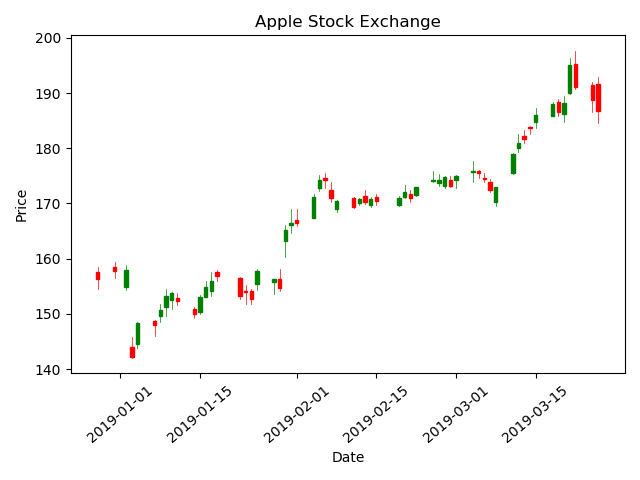
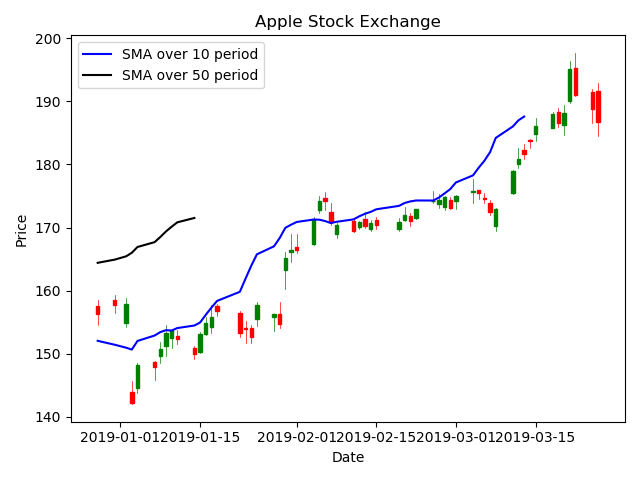
embedded sma plots

diff --git a/exploratory_analysis.py b/exploratory_analysis.py
@@ -9,14 +9,19 @@ def convert_dates(x):
     return datetime.strptime(x, "%d-%m-%Y").strftime("%Y-%m-%d")
 
 def settings():
+    plt.plot(df['date'], df['sma10'], c='blue', label='SMA over 10 period')
+    plt.plot(df['date'], df['sma50'], c='black', label='SMA over 50 period')
     plt.xlabel('Date')
     plt.ylabel('Price')
     plt.title('Apple Stock Exchange')
-    plt.xticks(rotation=40)
+    plt.legend()
     plt.tight_layout()
 
 df = pd.read_csv('HistoricalQuotes-3Months.csv')
 df['date'] = pd.to_datetime(df['date'].apply(convert_dates))
+
+df['sma10'] = df['close'].rolling(10).mean()
+df['sma50'] = df['close'].rolling(50).mean()
 
 ohlc = df[['date', 'open', 'high', 'low', 'close']].copy()
 ohlc['date'] = ohlc['date'].apply(date2num)
@@ -30,7 +35,8 @@ settings()
 plt.savefig('ohlc.png')
 plt.show()
 
-plt.plot(df['date'], df['close'])
+
+plt.plot(df['date'], df['close'], c='green', label='Closing price')
 settings()
 plt.savefig('time series.png')
 plt.show()
